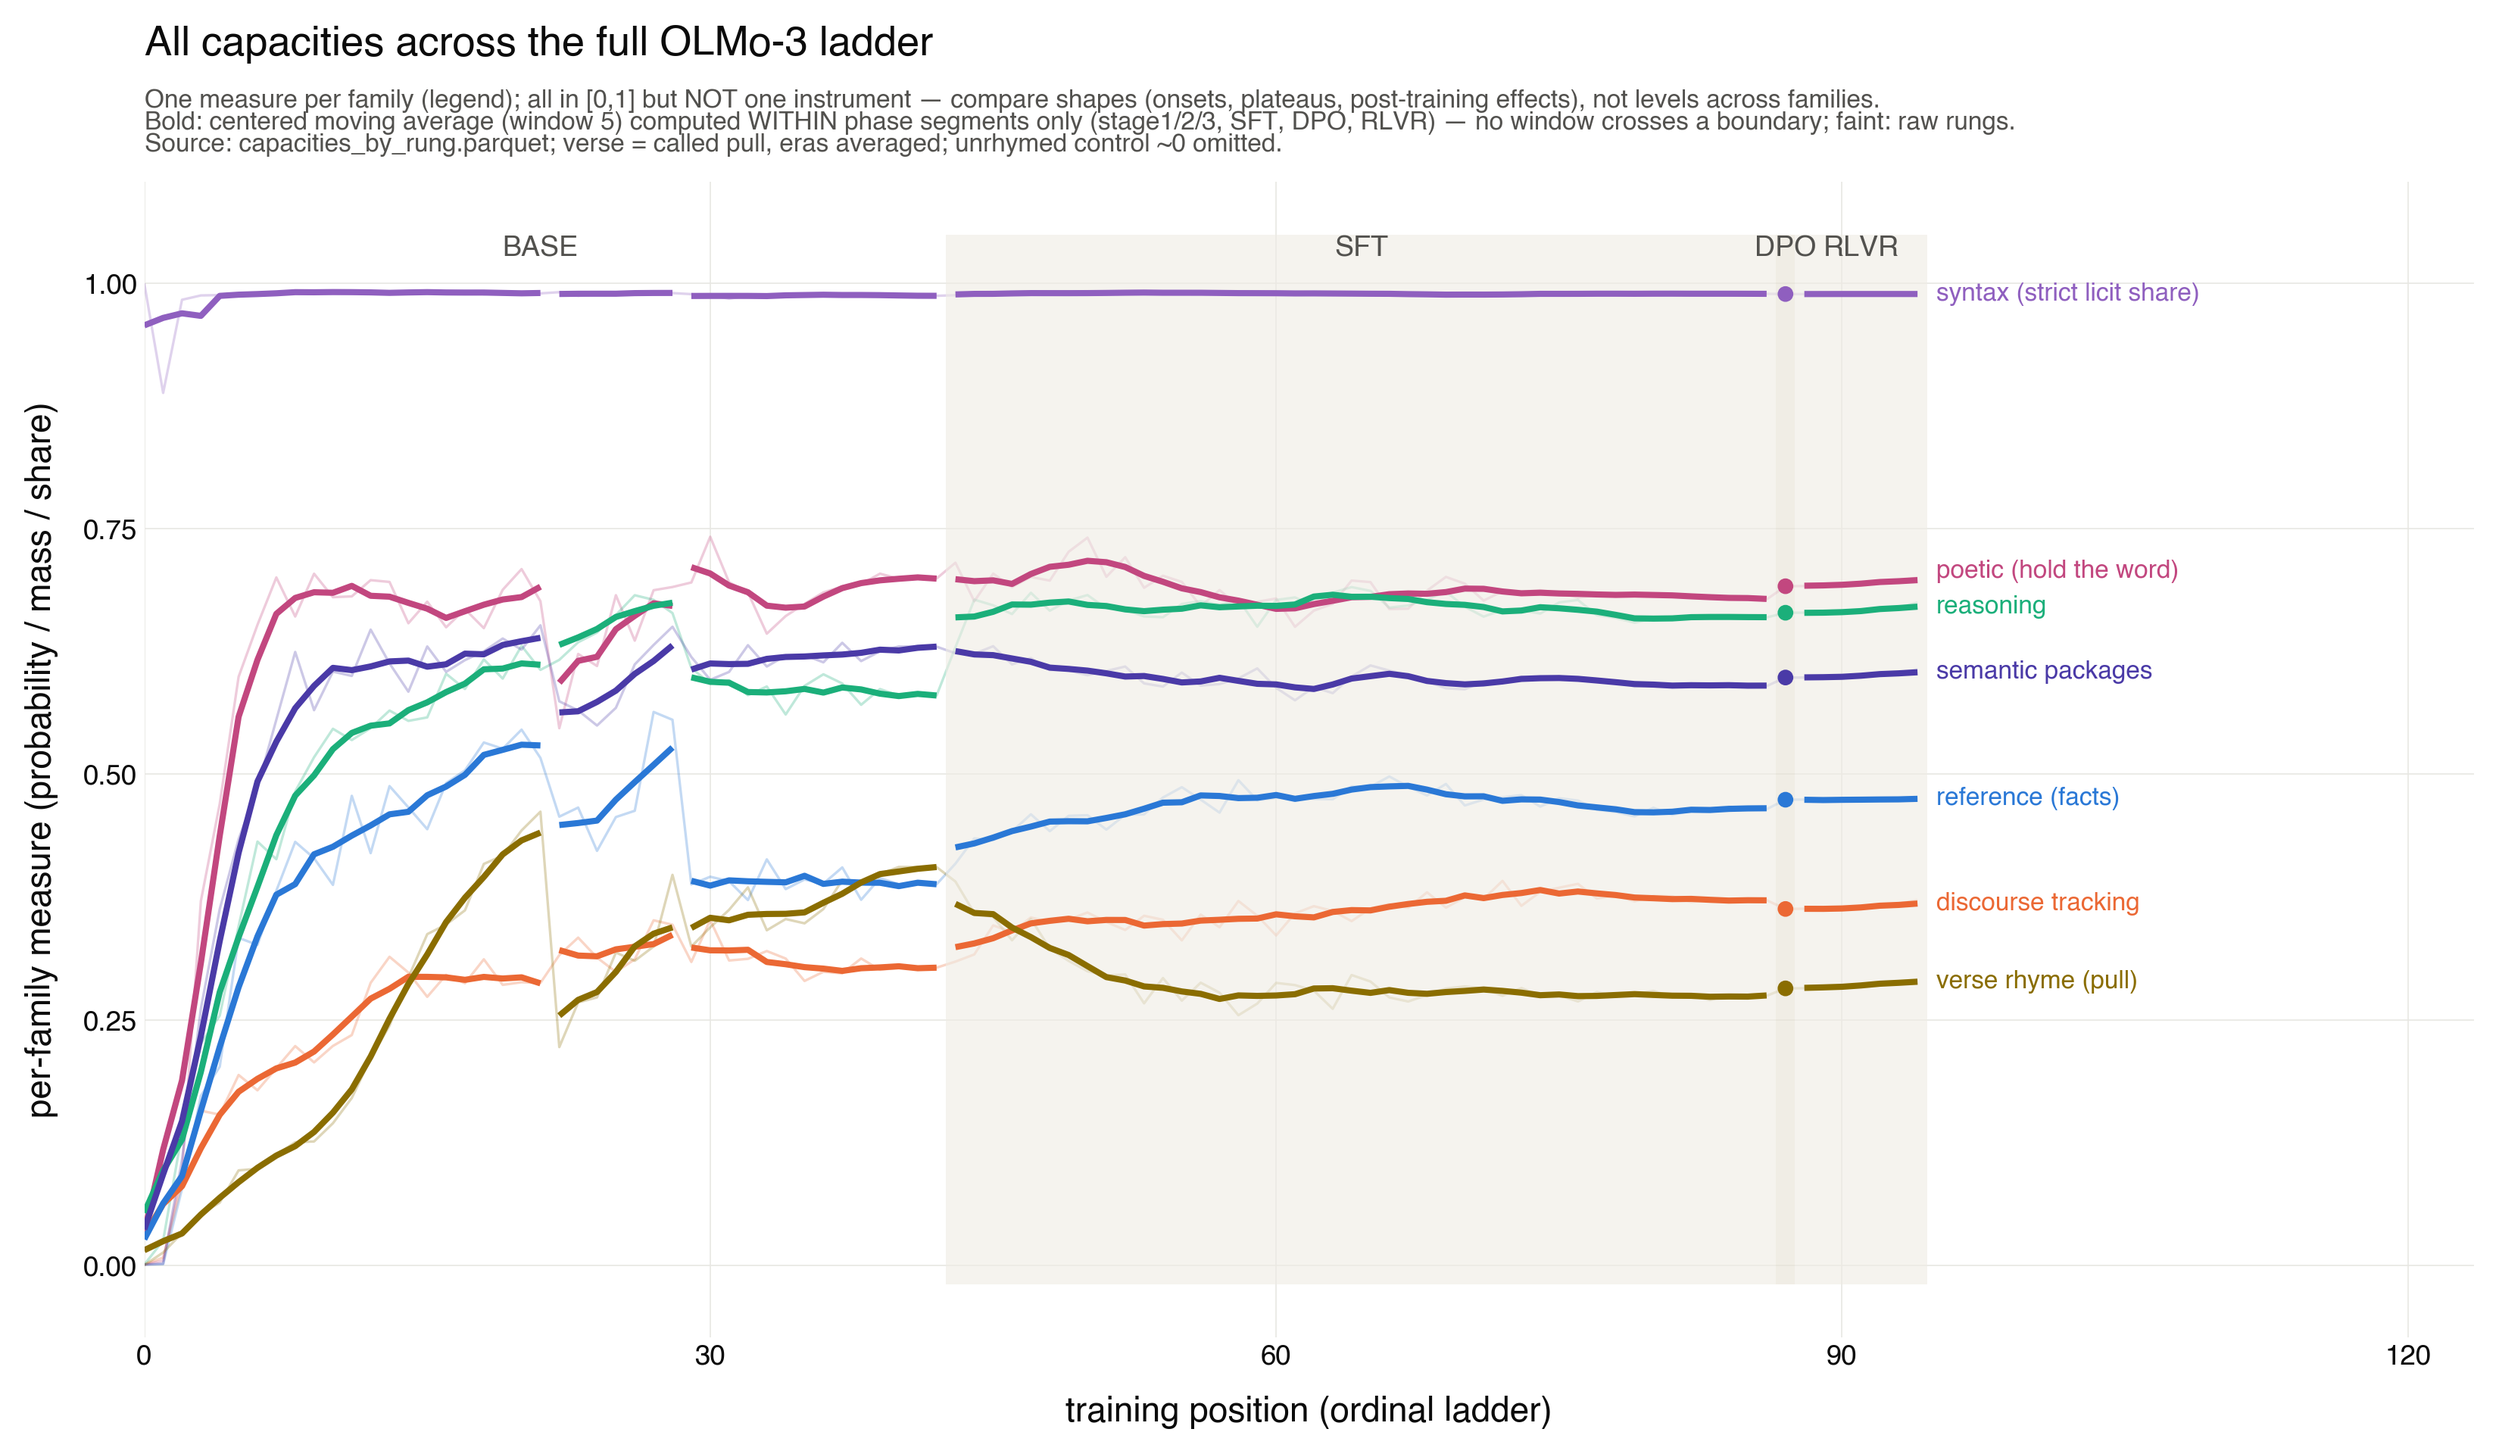
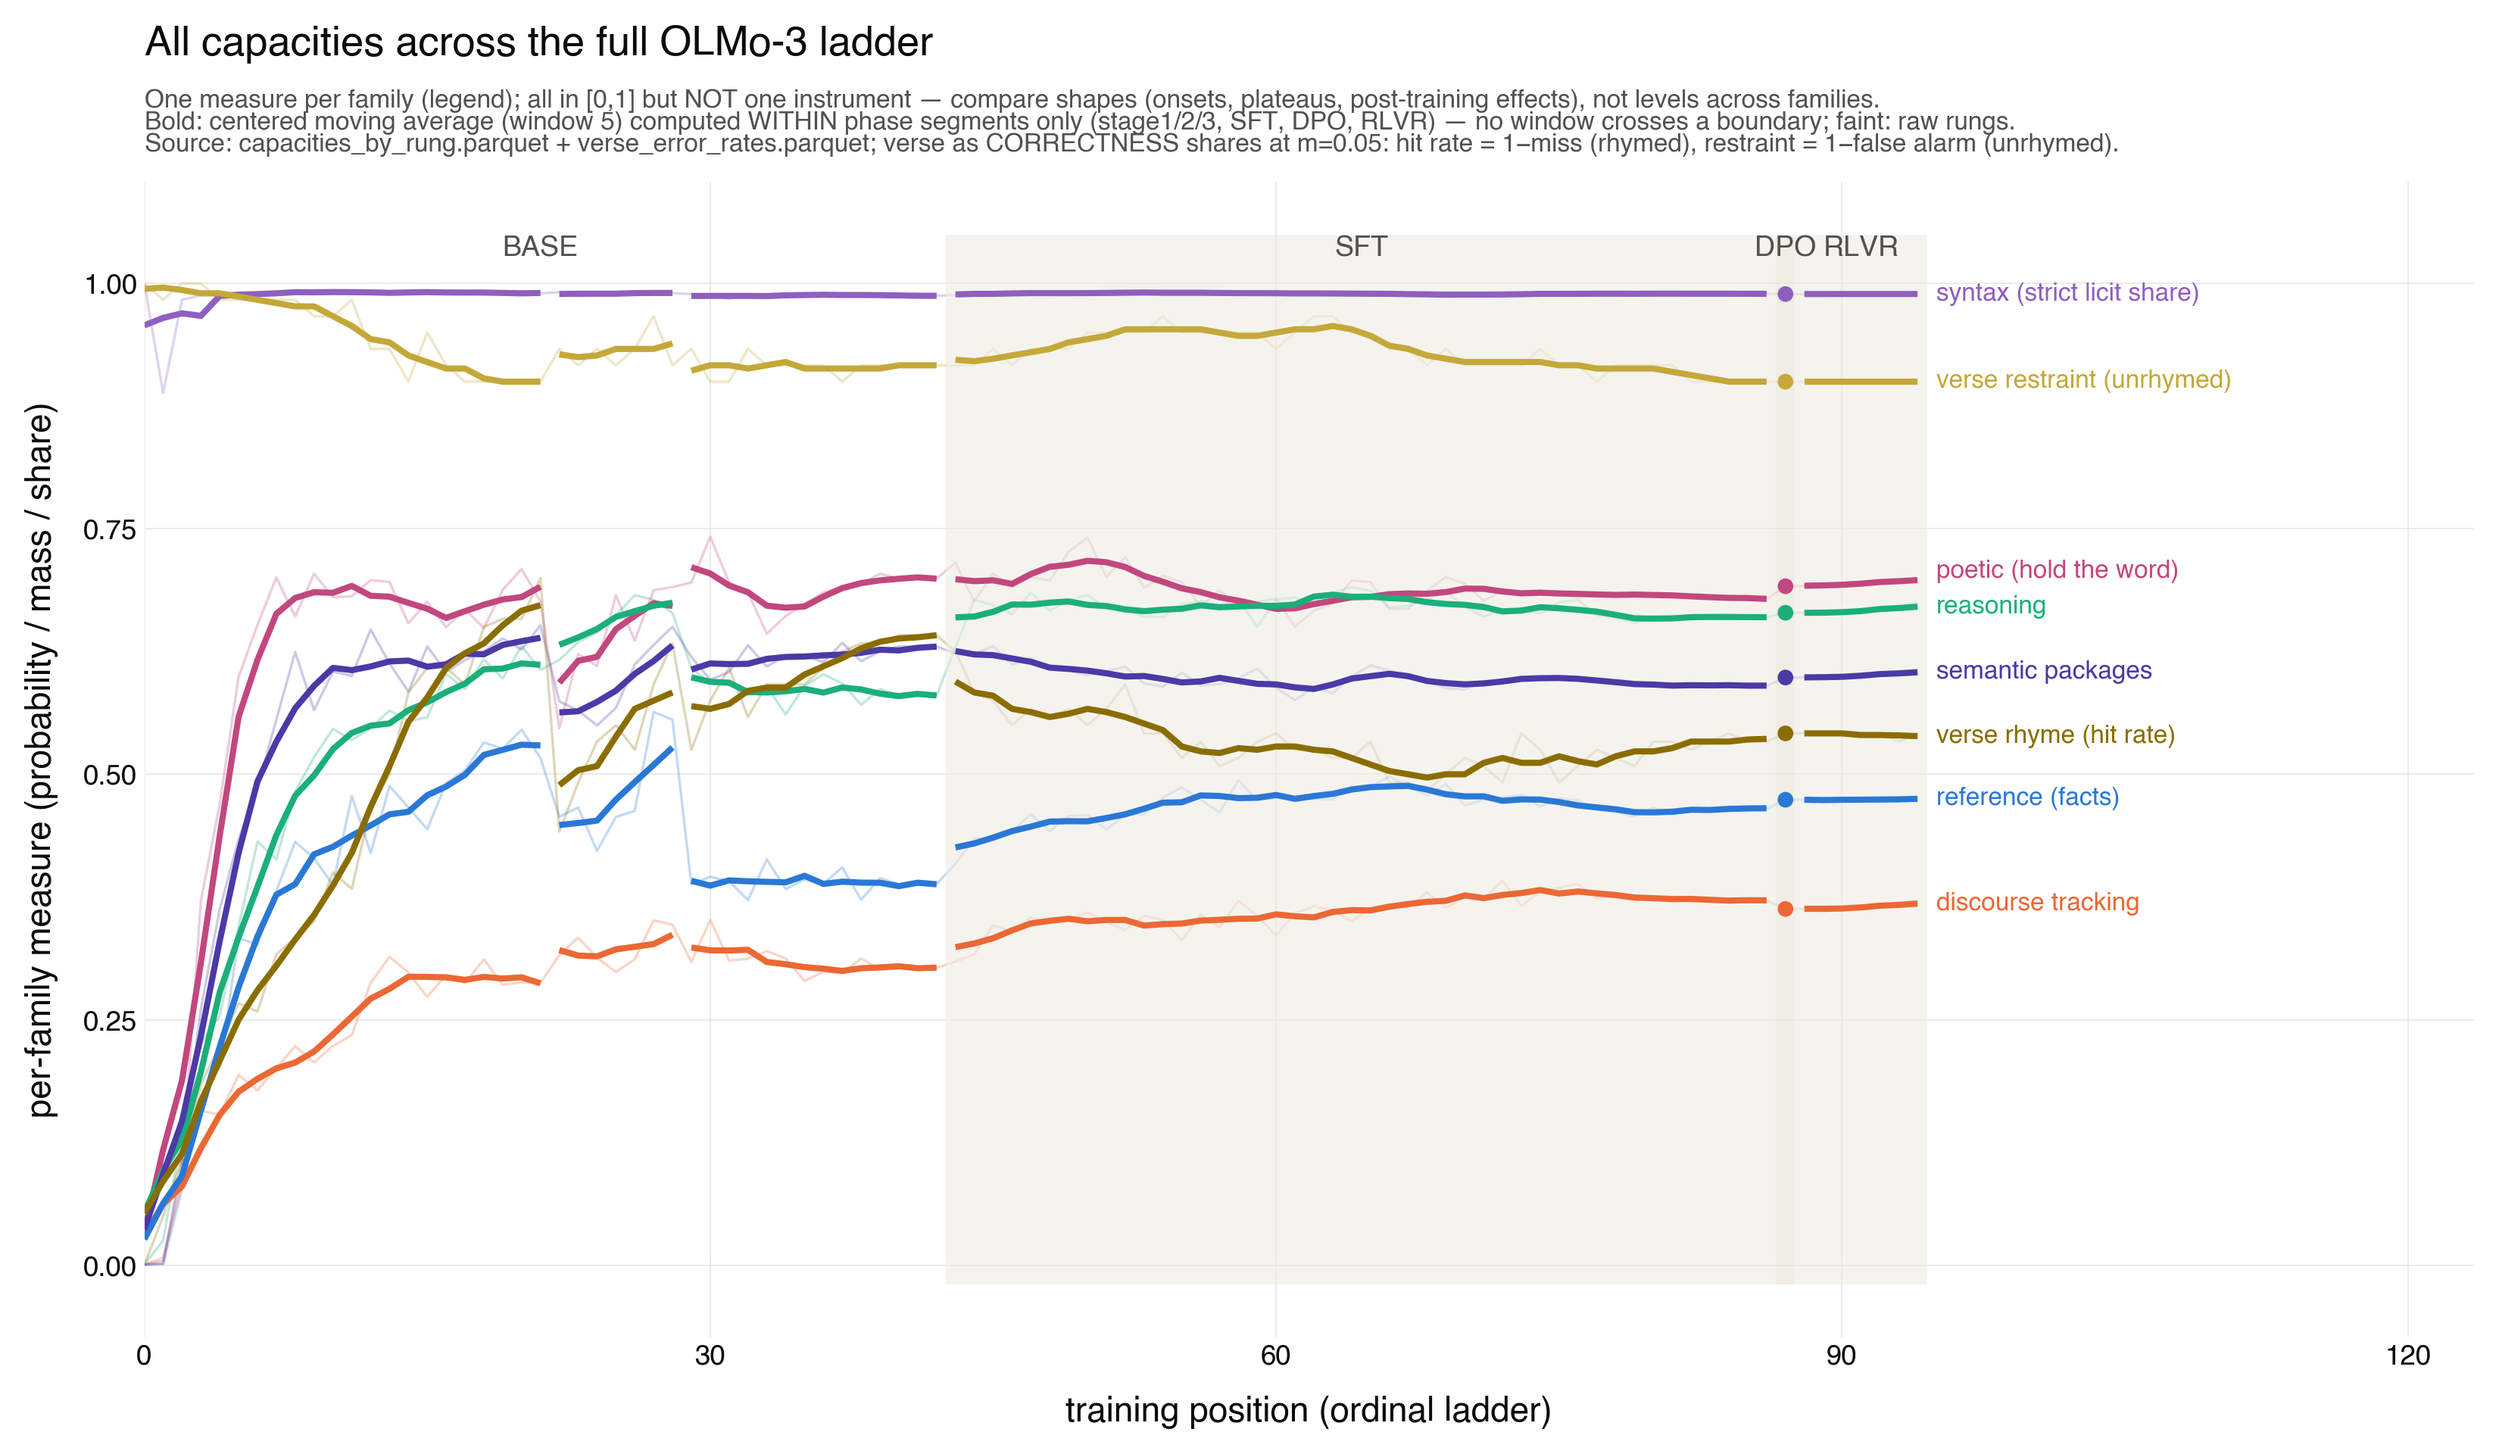
M05: fig26/27 — verse as correctness on the all-capacities page
Verse pull-mass line replaced by the two signal-detection virtues at
m=0.05 (verse_error_rates.parquet): hit rate = 1-miss on rhymed,
restraint = 1-false alarm on unrhymed. Shares of poems — the scale the
rest of the page speaks.

diff --git a/meta/M05_emergence/scripts/m05_capacities_overview.py b/meta/M05_emergence/scripts/m05_capacities_overview.py
@@ -41,7 +41,8 @@ INK, INK2 = "#0b0b0b", "#52514e"
 COLORS = {"reference (facts)": "#2a78d6", "reasoning": "#1baf7a",
           "discourse tracking": "#eb6834", "semantic packages": "#4a3aa7",
           "poetic (hold the word)": "#c2477f",
-          "verse rhyme (pull)": "#8a6d00",
+          "verse rhyme (hit rate)": "#8a6d00",
+          "verse restraint (unrhymed)": "#c4a838",
           "sense (natural share)": "#4f7d70",
           "syntax (strict licit share)": "#8f5fbf"}
 LABEL = {"capacity_reference": "reference (facts)",
@@ -59,12 +60,27 @@ def build(ladder):
     for r in b.itertuples():
         rows.append(dict(ckpt_idx=r.ckpt_idx, fam=LABEL[r.family],
                          value=r.value, role=r.role, stage=r.stage))
-    v = d[d.family.isin(["verse_rhymed_pre-1900", "verse_rhymed_1900+"])
-          & (d.measure == "called_pull")]
-    for ck, g in v.groupby("ckpt_idx"):
-        rows.append(dict(ckpt_idx=ck, fam="verse rhyme (pull)",
-                         value=g.value.mean(), role=g.role.iloc[0],
-                         stage=g.stage.iloc[0]))
+    # verse as CORRECTNESS rates (RH 2026-08-14): hit = 1 - miss on
+    # rhymed poems, restraint = 1 - false alarm on unrhymed, at the
+    # declared m=0.05 margin (verse_error_rates.parquet, fig28/29's
+    # producer). Replaces the pull-mass line: shares of poems are the
+    # scale the rest of this page speaks.
+    er = pd.read_parquet(
+        "meta/M05_emergence/results/verse_error_rates.parquet")
+    er = er[er.margin == 0.05]
+    key = (d[["model", "ckpt_idx", "role", "stage"]]
+           .drop_duplicates("model").set_index("model"))
+    for r in er.itertuples():
+        if r.model not in key.index:
+            continue
+        k = key.loc[r.model]
+        rows.append(dict(ckpt_idx=int(k.ckpt_idx),
+                         fam="verse rhyme (hit rate)",
+                         value=1 - r.miss, role=k.role, stage=k.stage))
+        rows.append(dict(ckpt_idx=int(k.ckpt_idx),
+                         fam="verse restraint (unrhymed)",
+                         value=1 - r.false_alarm, role=k.role,
+                         stage=k.stage))
     s = d[(d.family == "sense") & (d.measure == "natural_share")]
     for r in s.itertuples():
         rows.append(dict(ckpt_idx=r.ckpt_idx, fam="sense (natural share)",
@@ -173,8 +189,10 @@ def draw(ladder, out):
                           "phase segments only (stage1/2/3, SFT, DPO, "
                           "RLVR) — no window crosses a boundary; faint: "
                           "raw rungs.\nSource: capacities_by_rung."
-                          "parquet; verse = called pull, eras averaged; "
-                          "unrhymed control ~0 omitted."),
+                          "parquet + verse_error_rates.parquet; verse "
+                          "as CORRECTNESS shares at m=0.05: hit rate = "
+                          "1−miss (rhymed), restraint = 1−false alarm "
+                          "(unrhymed)."),
                 color="")
          + theme_minimal(base_size=11)
          + theme(panel_grid_minor=element_blank(),
